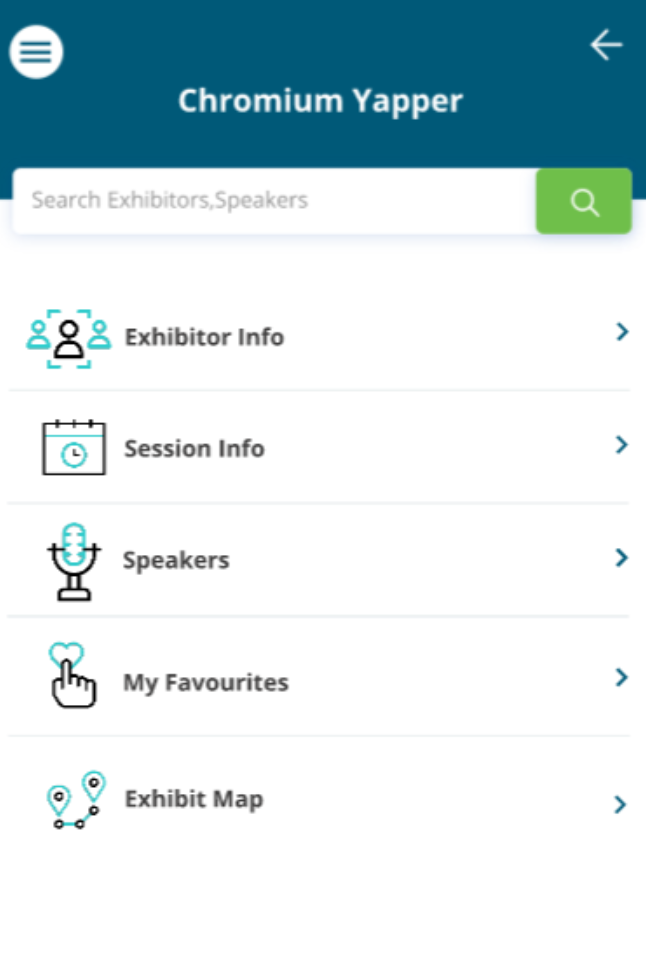
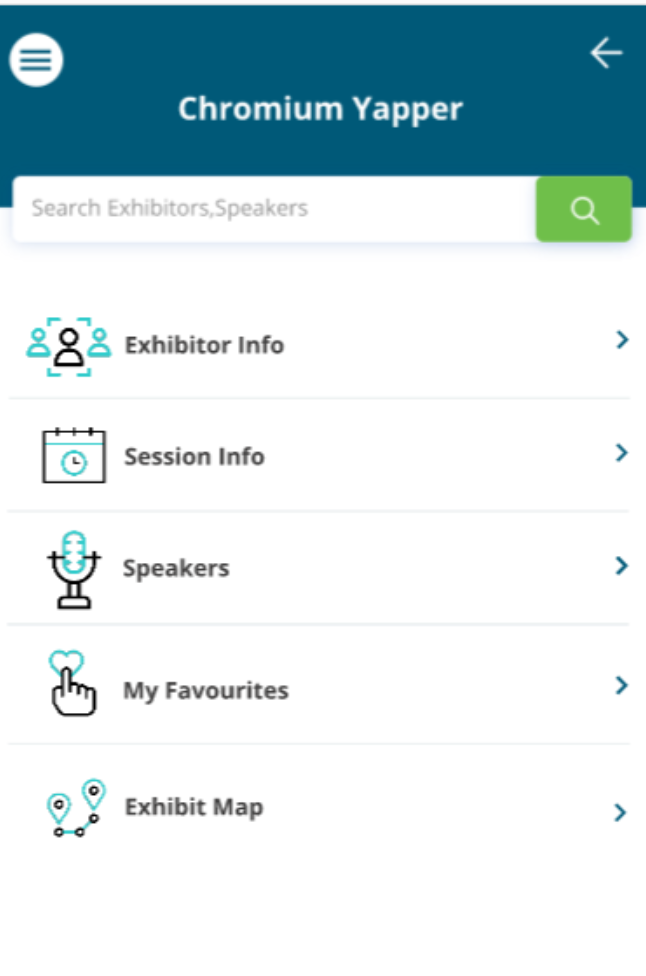
updated home layout shadow

diff --git a/src/pages/HomePage.jsx b/src/pages/HomePage.jsx
@@ -11,15 +11,21 @@ const HomePageContainer = styled.div`
 `;
 const CardContainer = styled.div`
   // height: 500px;
+  box-shadow: 0px 1px 3px #00000029;
+  opacity: 1;
 `;
 const Card = styled.img`
-  // max-width: 323px;
-  height: 488px;
+  width: 323px;
+  height: 470px;
 `;
 const CheckboxForm = styled.form`
   display: flex;
   align-items: center;
-  margin-left: 20px;
+  // margin-left: 20px;
+  background: #ffffff 0% 0% no-repeat padding-box;
+  // box-shadow: 0px 1px 3px #00000029;
+  opacity: 1;
+  width: 323px;
 `;
 const CheckboxInput = styled.input`
   width: 15px;
@@ -28,11 +34,14 @@ const CheckboxInput = styled.input`
   box-shadow: 0px 0px 2px #00000029;
   opacity: 1;
   margin-right: 10px;
+  margin-bottom: 10px;
+  margin-left: 7.95px;
 `;
 const CheckboxLabel = styled.label`
   font: normal normal normal 11px/17px Poppins;
   letter-spacing: 0px;
   color: #7e7a7a;
+  margin-bottom: 10px;
 `;
 
 const HomePage = () => {
